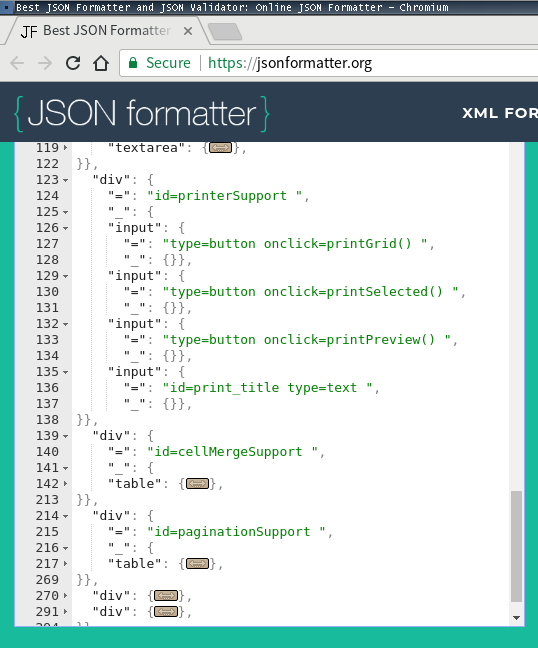
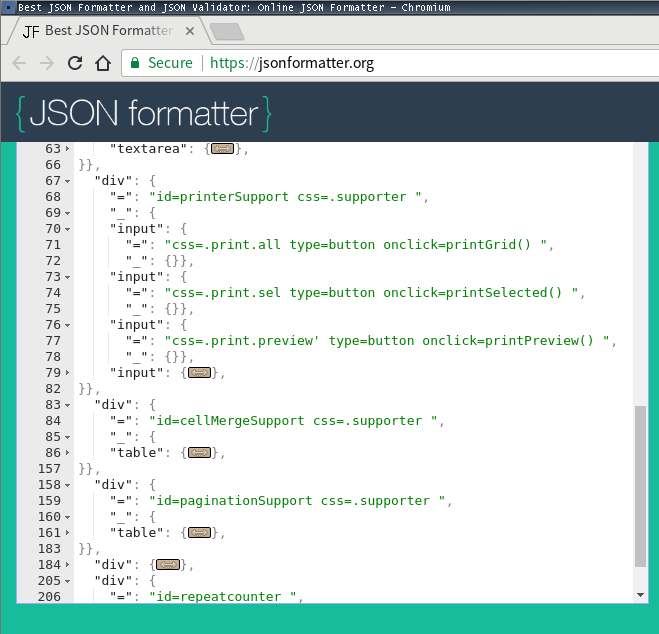
- [*] update README, for css

Changed region(s): [[0.0, 0.0, 1.0, 0.989], [0.4461, 0.5694, 0.5056, 0.5994]]

diff --git a/README.md b/README.md
@@ -35,7 +35,7 @@ The `htmlextract` makes it easy to look at the HTML files from different aspects
 ### $ htmlextract
 ```sh
 HTML Extraction Tool
-Version 0.1.0 built on 2018-01-06
+Version 0.1.0 built on 2018-01-07
 
 Tool to extract info from HTML
 
@@ -110,10 +110,10 @@ Options:
 {
 
 "body": {
-  "=": "",
+  "=": "css=.claro ",
   "_": {
   "h1": {
-    "=": "",
+    "=": "css=.title ",
     "_": {}},
   "div": {
     "=": "id=ctrlBtns ",
@@ -158,7 +158,7 @@ Options:
 }},
 }},
   "div": {
-    "=": "id=exporterSupport ",
+    "=": "id=exporterSupport css=.supporter ",
     "_": {
     "input": {
       "=": "id=exportAllCSV type=button ",
@@ -168,23 +168,23 @@ Options:
       "_": {}},
 }},
   "div": {
-    "=": "id=printerSupport ",
+    "=": "id=printerSupport css=.supporter ",
     "_": {
     "input": {
-      "=": "type=button onclick=printGrid() ",
+      "=": "css=.print.all type=button onclick=printGrid() ",
       "_": {}},
     "input": {
-      "=": "type=button onclick=printSelected() ",
+      "=": "css=.print.sel type=button onclick=printSelected() ",
       "_": {}},
     "input": {
-      "=": "type=button onclick=printPreview() ",
+      "=": "css=.print.preview' type=button onclick=printPreview() ",
       "_": {}},
     "input": {
       "=": "id=print_title type=text ",
       "_": {}},
 }},
   "div": {
-    "=": "id=cellMergeSupport ",
+    "=": "id=cellMergeSupport css=.supporter ",
     "_": {
     "table": {
       "=": "",
@@ -259,7 +259,7 @@ Options:
 }},
 }},
   "div": {
-    "=": "id=paginationSupport ",
+    "=": "id=paginationSupport css=.supporter ",
     "_": {
     "table": {
       "=": "",
@@ -285,7 +285,7 @@ Options:
 }},
 }},
   "div": {
-    "=": "",
+    "=": "css=.tutor.footer.howtouse ",
     "_": {
     "p": {
       "=": "",
@@ -317,9 +317,9 @@ Options:
 - By extracting HTML structure as outline, the `htmlextract outline` will make it easier to analyse the file structure, by eliminating all the glory details out of the way, which is most often needed when doing web scrapping or WebDriver code developing.
 - The output is mindfully chosen as the JSON format so as to easily take advantage of the dynamic folding feature that the text editors provide. Or you can use the [jsonformatter.org](https://jsonformatter.org/) online as well, even without a text editor.
 
-Here is a screenshot of viewing the result of `htmlextract outline -i test/sample2.html`:
+Here is a screenshot of viewing the result of `htmlextract outline -i test/sample0.html`:
 
-![sample2.png](sample2.png "sample2.png")
+![sample.png](sample.png "Sample screenshot")
 
 # Download binaries
 

diff --git a/README.e.md b/README.e.md
@@ -38,9 +38,9 @@ The `htmlextract` makes it easy to look at the HTML files from different aspects
 - By extracting HTML structure as outline, the `htmlextract outline` will make it easier to analyse the file structure, by eliminating all the glory details out of the way, which is most often needed when doing web scrapping or WebDriver code developing.
 - The output is mindfully chosen as the JSON format so as to easily take advantage of the dynamic folding feature that the text editors provide. Or you can use the [jsonformatter.org](https://jsonformatter.org/) online as well, even without a text editor.
 
-Here is a screenshot of viewing the result of `htmlextract outline -i test/sample2.html`:
+Here is a screenshot of viewing the result of `htmlextract outline -i test/sample0.html`:
 
-![sample2.png](sample2.png "sample2.png")
+![sample.png](sample.png "Sample screenshot")
 
 # Download binaries
 
